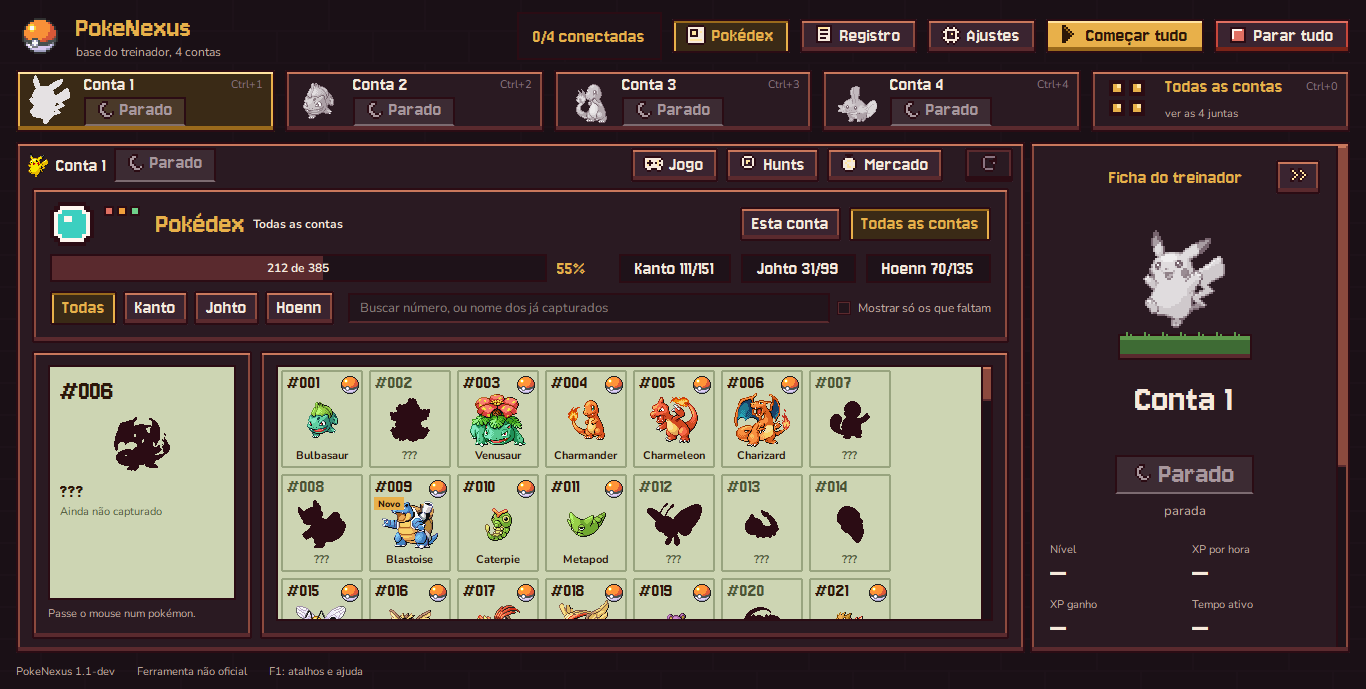
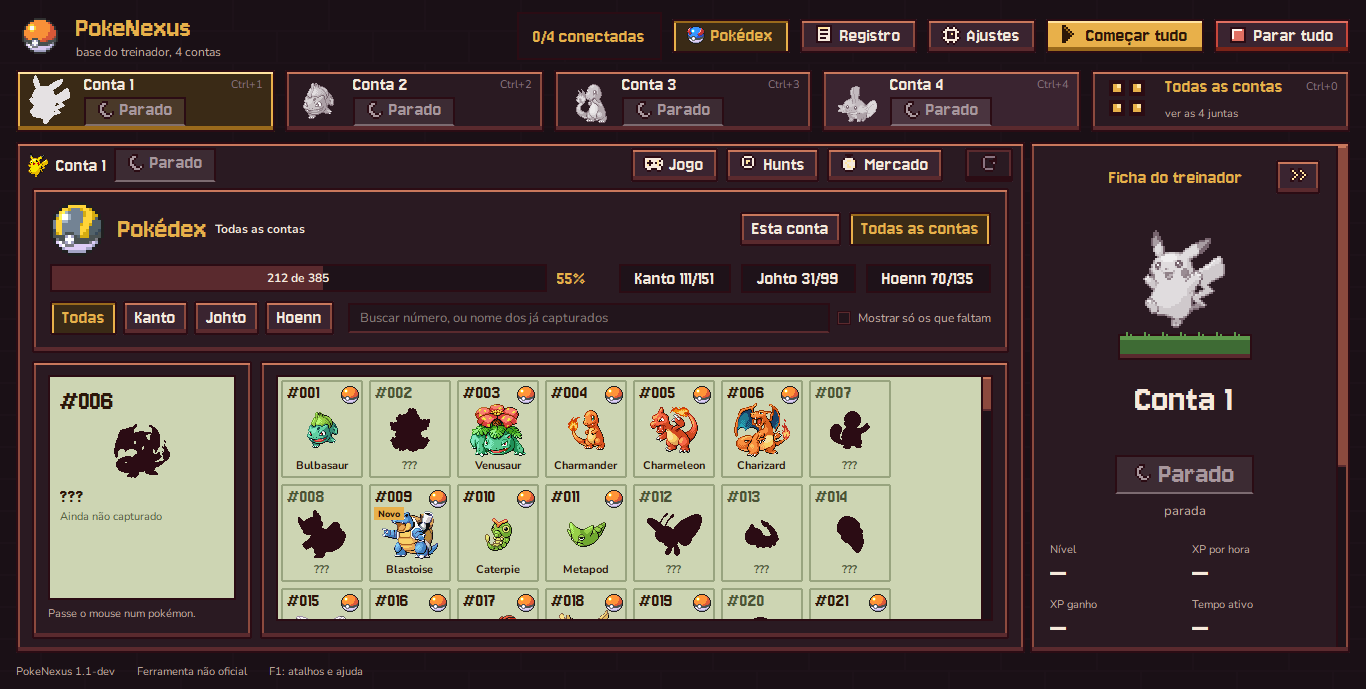
Pokédex: Pokébolas no botão do topo e no cabeçalho
O ícone desenhado do botão vira a Great Ball e a lente do cabeçalho vira a
Ultra Ball (pacote pokesprite, escolha do usuário).

diff --git a/app/pokedex_ui.py b/app/pokedex_ui.py
@@ -289,26 +289,21 @@ CORES = {"fundo": T["tela_dex"], "fundo_pego": T["tela_dex"], "borda": T["tela_d
          "selo": T["destaque"], "sobre_selo": T["sobre_destaque"], "silhueta": T["filete"]}
 
 
-class Lente(QWidget):
-    """A lente e as três luzinhas do aparelho (desenho próprio em pixel, cores do tema)."""
+def bola(arquivo, fator: int = 1) -> QPixmap:
+    """Uma Pokébola do pacote pokesprite (assets/sprites/ui), recortada no desenho e ampliada sem borrar."""
+    img = QImage(str(ASSETS_DIR / "sprites" / "ui" / arquivo))
+    r = _alpha_bbox(img) if not img.isNull() else None
+    img = img.copy(r) if r else img
+    return QPixmap.fromImage(img.scaled(img.width() * fator, img.height() * fator, Qt.IgnoreAspectRatio,
+                                        Qt.FastTransformation))
+
+
+class Lente(QLabel):
+    """A Ultra Ball no alto da Pokédex (escolha do usuário, 17/10/2026: no lugar da lente desenhada)."""
 
     def __init__(self):
         super().__init__()
-        self.setFixedSize(92, 44)
-
-    def paintEvent(self, _ev):
-        p = QPainter(self)
-        ret = lambda x, y, w, h, cor: p.fillRect(x, y, w, h, QColor(T[cor]))
-        # a lente: quadrados encaixados, cantos de pixel (um "círculo" de pixel art)
-        for (x, y, w, h), cor in (((8, 0, 28, 44), "filete"), ((0, 8, 44, 28), "filete"), ((4, 4, 36, 36), "filete"),
-                                  ((10, 4, 24, 36), "sobre_madeira"), ((4, 10, 36, 24), "sobre_madeira"),
-                                  ((8, 8, 28, 28), "sobre_madeira"), ((12, 8, 20, 28), "foco"), ((8, 12, 28, 20), "foco"),
-                                  ((12, 12, 20, 20), "foco"), ((14, 14, 8, 6), "sobre_madeira")):
-            ret(x, y, w, h, cor)
-        for i, cor in enumerate(("perigo_luz", "aviso", "ok")):
-            ret(54 + i * 13, 4, 10, 10, "filete")
-            ret(56 + i * 13, 6, 6, 6, cor)
-        p.end()
+        self.setPixmap(bola("bola_pokedex.png", 3))
 
 
 # ============================================================ o painel

diff --git a/app/gui.py b/app/gui.py
@@ -24,7 +24,7 @@ from app.hunt_ui import HuntPanel
 from app.rmt_ui import RmtPanel
 from app.manager import Manager
 from app.atualizacao import Atualizacao
-from app.pokedex_ui import PokedexDados, PokedexPanel
+from app.pokedex_ui import PokedexDados, PokedexPanel, bola as pokedex_bola
 from app.dialogos import avisar, perguntar
 from app.molduras import Botao, Moldura
 from app.icones import TAM as ICO_TAM, icone, por_nome_do_botao
@@ -1184,7 +1184,10 @@ class MainWindow(QMainWindow):
         # esquerda dela, igual. Não confundir com o botão Pokédex do próprio jogo (dentro da página).
         atalho_dex = self.cfg["atalhos"].get("pokedex", config_edit.ATALHO_PADRAO["pokedex"])
         self.b_pokedex = button("Pokédex", None, f"A Pokédex do PokeNexus: quem esta conta já capturou "
-                                f"({atalho_dex}). Só mostra, não mexe no jogo", self._alternar_pokedex, ico="pokedex")
+                                f"({atalho_dex}). Só mostra, não mexe no jogo", self._alternar_pokedex)
+        self.b_pokedex.setText(" Pokédex")
+        self.b_pokedex.setIcon(QIcon(pokedex_bola("bola_botao.png")))     # a Great Ball (escolha do usuário)
+        self.b_pokedex.setIconSize(ICO_TAM)
         self.b_pokedex.setCheckable(True)
         h.addWidget(self.b_pokedex)
         self._topo, self._marca = h, brand

diff --git a/ferramentas/arte/icones.py b/ferramentas/arte/icones.py
@@ -273,19 +273,6 @@ oooooolo..
 ..oioooooo
 ...oo....."""
 
-# o aparelho da Pokédex (desenho próprio): a lente grande, uma luzinha e a tela
-ACOES["pokedex"] = """
-.oooooooo.
-oiiiiiiiio
-oiooooiiio
-oiolloilio
-oiolloiiio
-oiooooiiio
-oiiiiiiiio
-oillllllio
-oiiiiiiiio
-.oooooooo."""
-
 # Ícones de status (cada um pintado com a cor do status).
 STATUS = {
     "FARMING": """

diff --git a/docs/pokedex/RELATORIO.md b/docs/pokedex/RELATORIO.md
@@ -16,6 +16,7 @@ Reconhecimento (Fase 1, mostrado ao usuário): `RECONHECIMENTO.md`.
 | Inventário (mensagem durante o trabalho) | **"A pokedex deve identificar os pokémons já adquiridos no inventário"**: o inventário da conta (`pokemons`, com o Depot) conta sempre, inclusive pokémon vindo de evolução ou troca. Por isso o total do PokeNexus **pode passar** o da aba do jogo, que só conta capturas |
 | Visual | **B, o aparelho**: lente e luzinhas no alto, a grade numa tela de LCD clara e a telinha do pokémon em que o mouse está (a proposta A, vitrine escura, ficou nos prints `A_*`) |
 | Topo estreito | Na janela mínima (760×600) não cabia: **só nesse caso** a Pokédex fica só com o ícone e o contador vira "0/4" (dica "contas conectadas") |
+| Ícones (depois da v1.1.6) | O ícone do botão Pokédex e a lente do cabeçalho viraram duas Pokébolas do mesmo pacote: a **Great Ball** no botão (`bola_botao.png`) e a **Ultra Ball** no cabeçalho (`bola_pokedex.png`, 3×). O ícone desenhado `ico_pokedex_*` saiu |
 | Pokébolas (mensagem durante o trabalho) | Usar as bolas enviadas "só onde for necessário": **só a Poké Ball, no canto das células capturadas**. Arquivo `poke.png` do pacote pokesprite (`Downloads\pokesprite-master\items\ball`), copiado sem mudança para `assets/sprites/ui/bola_capturado.png` |
 
 ## O que foi feito

diff --git a/AGENTS.md b/AGENTS.md
@@ -44,7 +44,8 @@ App desktop para Windows (Python 3.11+, PySide6/Qt WebEngine) que roda até **4 
   padrão fica em `config_edit.ATALHO_PADRAO`). **A Pokédex só lê; a lista de espécies vem dos sprites ∩ catálogo
   do jogo no ar** (nada fixo no código). Pego = Pokédex do jogo `c > 0` + inventário da conta (pedido do usuário)
   + evento `capturado`; Mega/Forma seguem o jogo. A Pokébola das células é `assets/sprites/ui/bola_capturado.png`
-  (pacote pokesprite, que o usuário mandou). Relatório em `docs/pokedex/RELATORIO.md`.
+  (pacote pokesprite, que o usuário mandou); a Great Ball do botão do topo é `bola_botao.png` e a Ultra Ball
+  do cabeçalho é `bola_pokedex.png`. Relatório em `docs/pokedex/RELATORIO.md`.
 - `hunts/` — motor do Hunt Analyzer; `hunts/bridge.js` usa os módulos do próprio jogo.
 - Modo Leve: só a opção `[desempenho] modo_leve` nas Configurações (vale ao reiniciar). **Não existe**
   mais executável separado "Leve" — o usuário não quer. **Leve 2.0** (`browser/web_host.py`): NÃO
